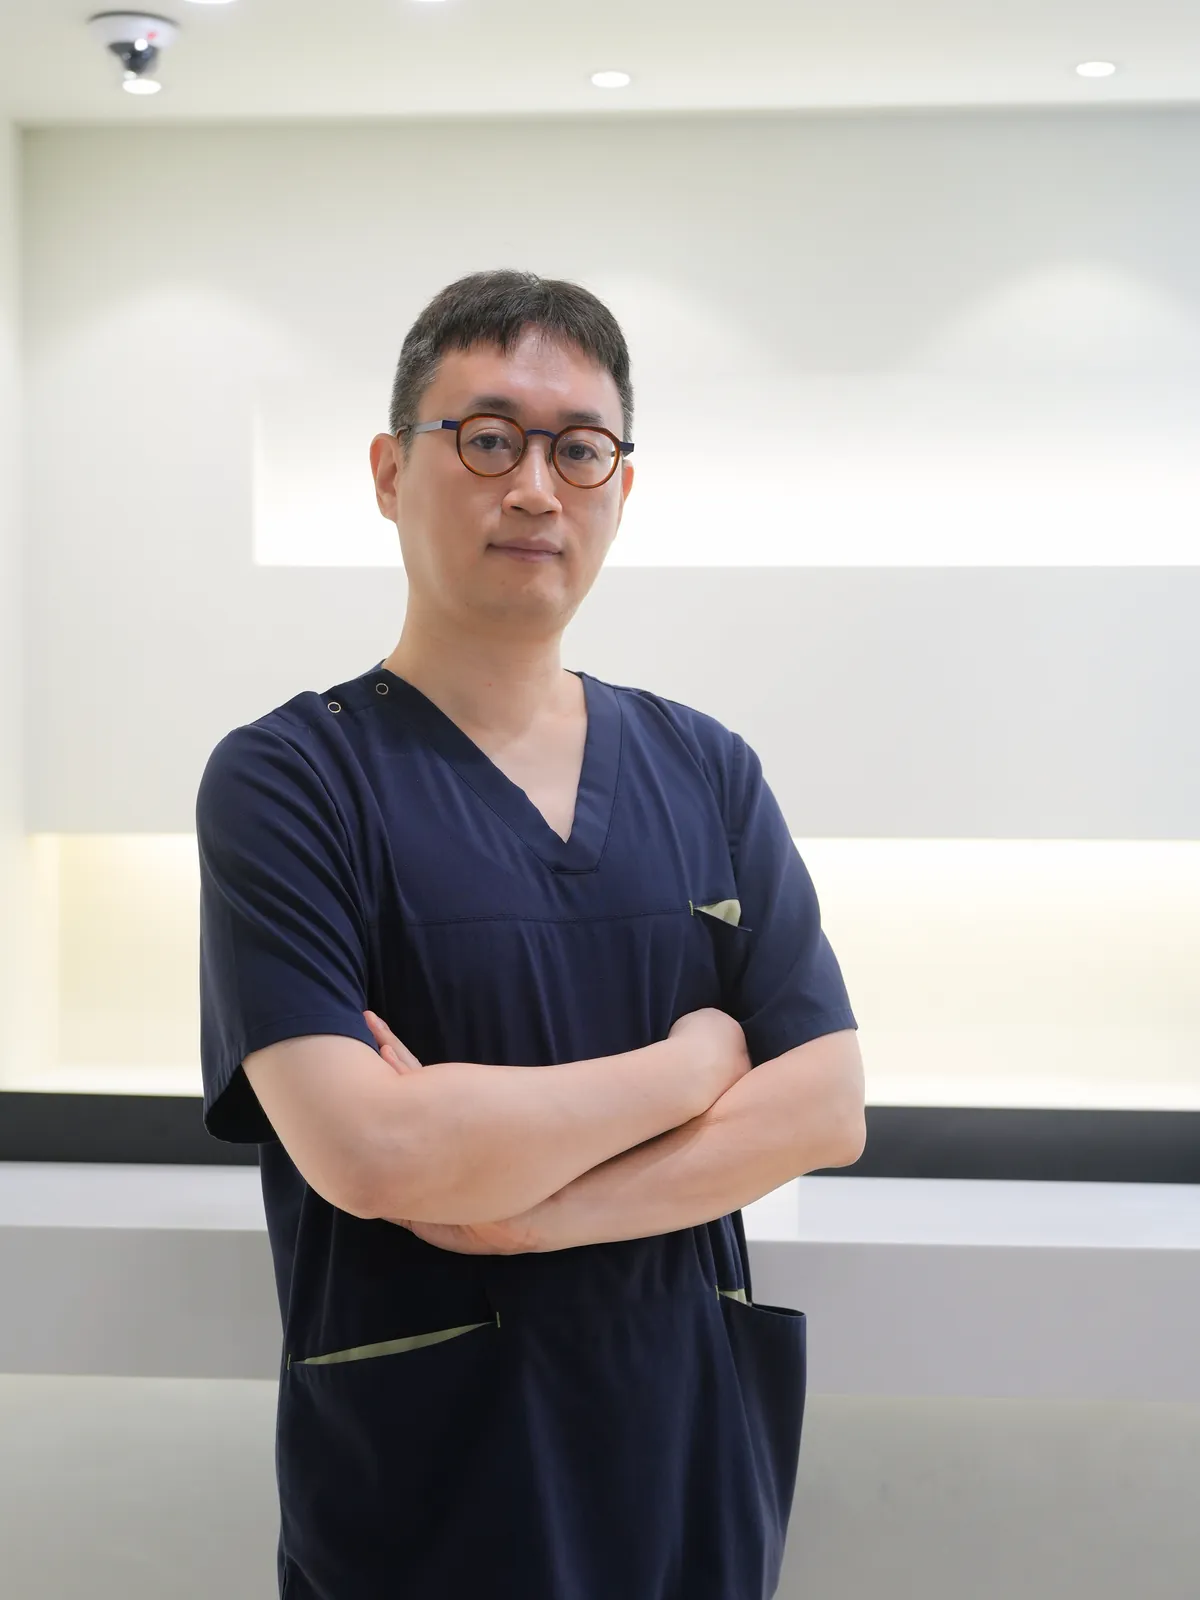
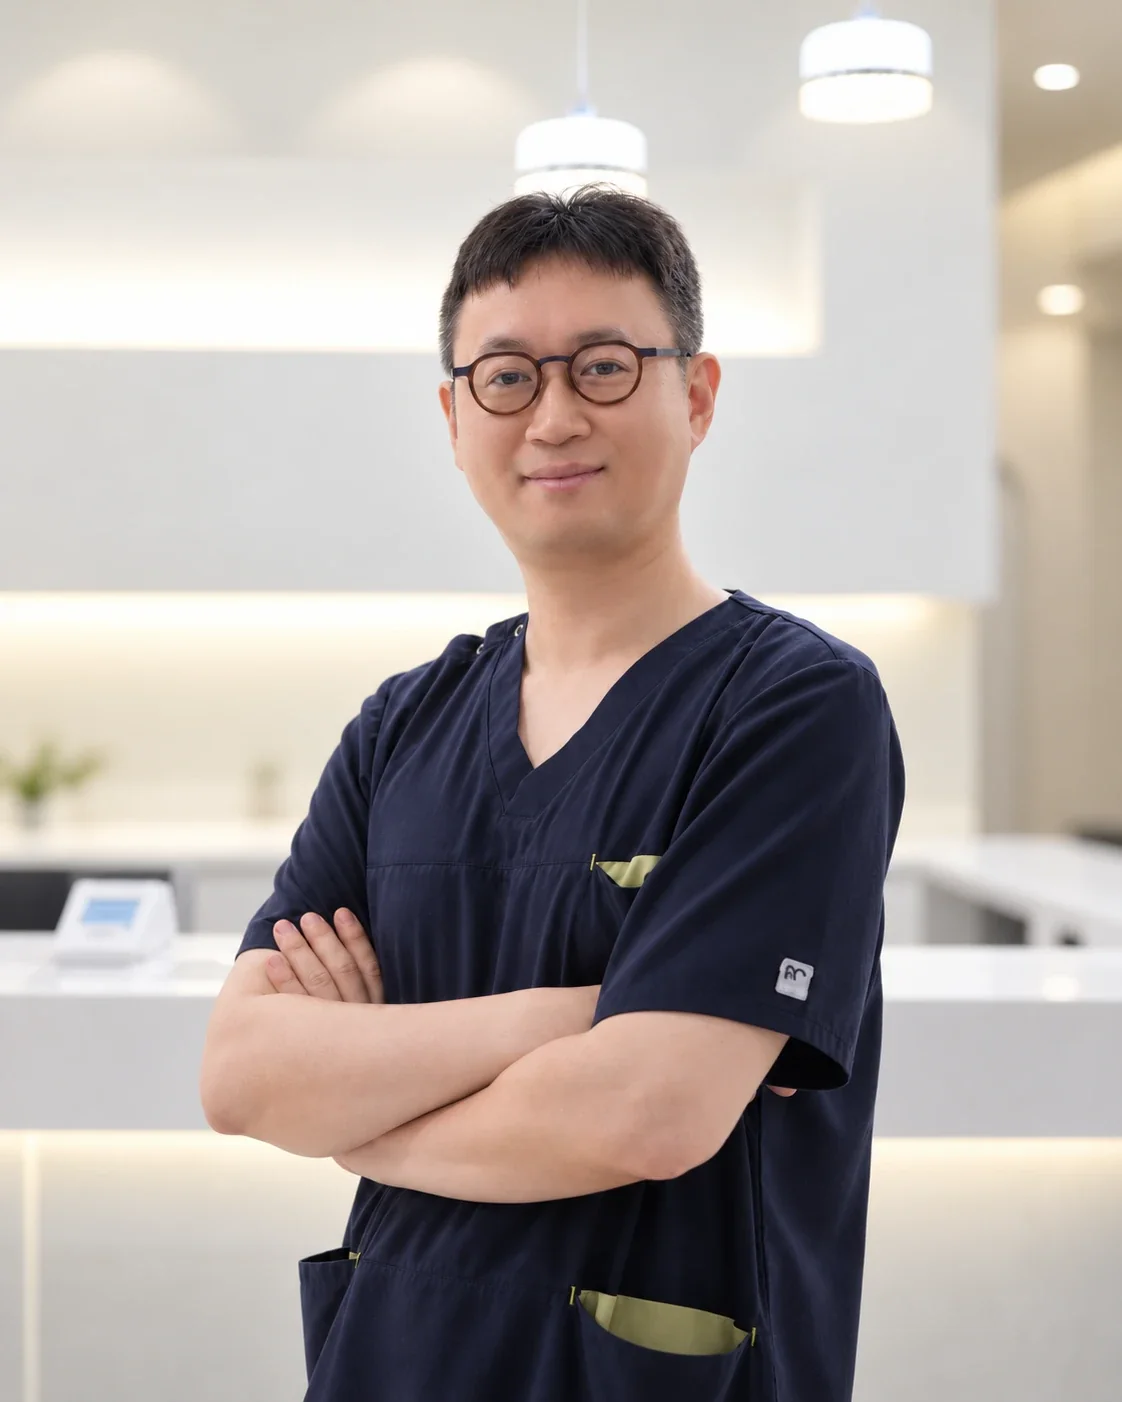
원장 프로필·누끼 사진 교체, 오시는 길 글 정리
- 원장 프로필 사진과 인사말 누끼 사진을 새 사진으로 교체
- 오시는 길: 건물 안내 · 지하철 · 주차를 제목/내용 두 칸으로 정렬, 구분선 삭제

Claude-Session: https://claude.ai/code/session_01VQvQAAFwhwRPGFMMMYtpmE

diff --git a/src/components/home/HomeLocation.tsx b/src/components/home/HomeLocation.tsx
@@ -18,7 +18,7 @@ export default function HomeLocation({ hospital }: { hospital: Hospital }) {
             <h2 className="mt-4 font-serif text-[30px] font-medium tracking-[-0.04em] md:text-[44px]">오시는 길</h2>
           </Reveal>
 
-          <div className="mt-10 grid gap-10 sm:grid-cols-2 md:mt-14">
+          <div className="mt-10 grid gap-10 sm:grid-cols-[1.25fr_1fr] md:mt-14">
             <Reveal>
               <h3 className="font-display text-xl text-mocha md:text-2xl">Address</h3>
               <p className="mt-4 text-[15px] leading-relaxed font-medium md:text-base">
@@ -26,14 +26,14 @@ export default function HomeLocation({ hospital }: { hospital: Hospital }) {
                 <br />
                 {hospital.addressDetail}
               </p>
-              <ul className="mt-3 space-y-1.5 text-sm text-muted">
+              <dl className="mt-5 space-y-2.5 text-sm leading-relaxed">
                 {hospital.directions.slice(0, 3).map((d) => (
-                  <li key={d.title}>
-                    <span className="mr-2 text-mocha">{d.title}</span>
-                    {d.body}
-                  </li>
+                  <div key={d.title} className="grid grid-cols-[4.5rem_1fr] gap-3">
+                    <dt className="text-mocha">{d.title}</dt>
+                    <dd className="text-muted break-keep">{d.body}</dd>
+                  </div>
                 ))}
-              </ul>
+              </dl>
             </Reveal>
 
             <Reveal delay={120}>
@@ -59,7 +59,7 @@ export default function HomeLocation({ hospital }: { hospital: Hospital }) {
             </Reveal>
           </div>
 
-          <Reveal className="mt-10 border-t border-ink/10 pt-8 lg:mt-auto">
+          <Reveal className="mt-12 lg:mt-auto lg:pt-10">
             <div className="flex flex-wrap items-end justify-between gap-6">
               <div>
                 <h3 className="font-display text-xl text-mocha md:text-2xl">Contact</h3>
